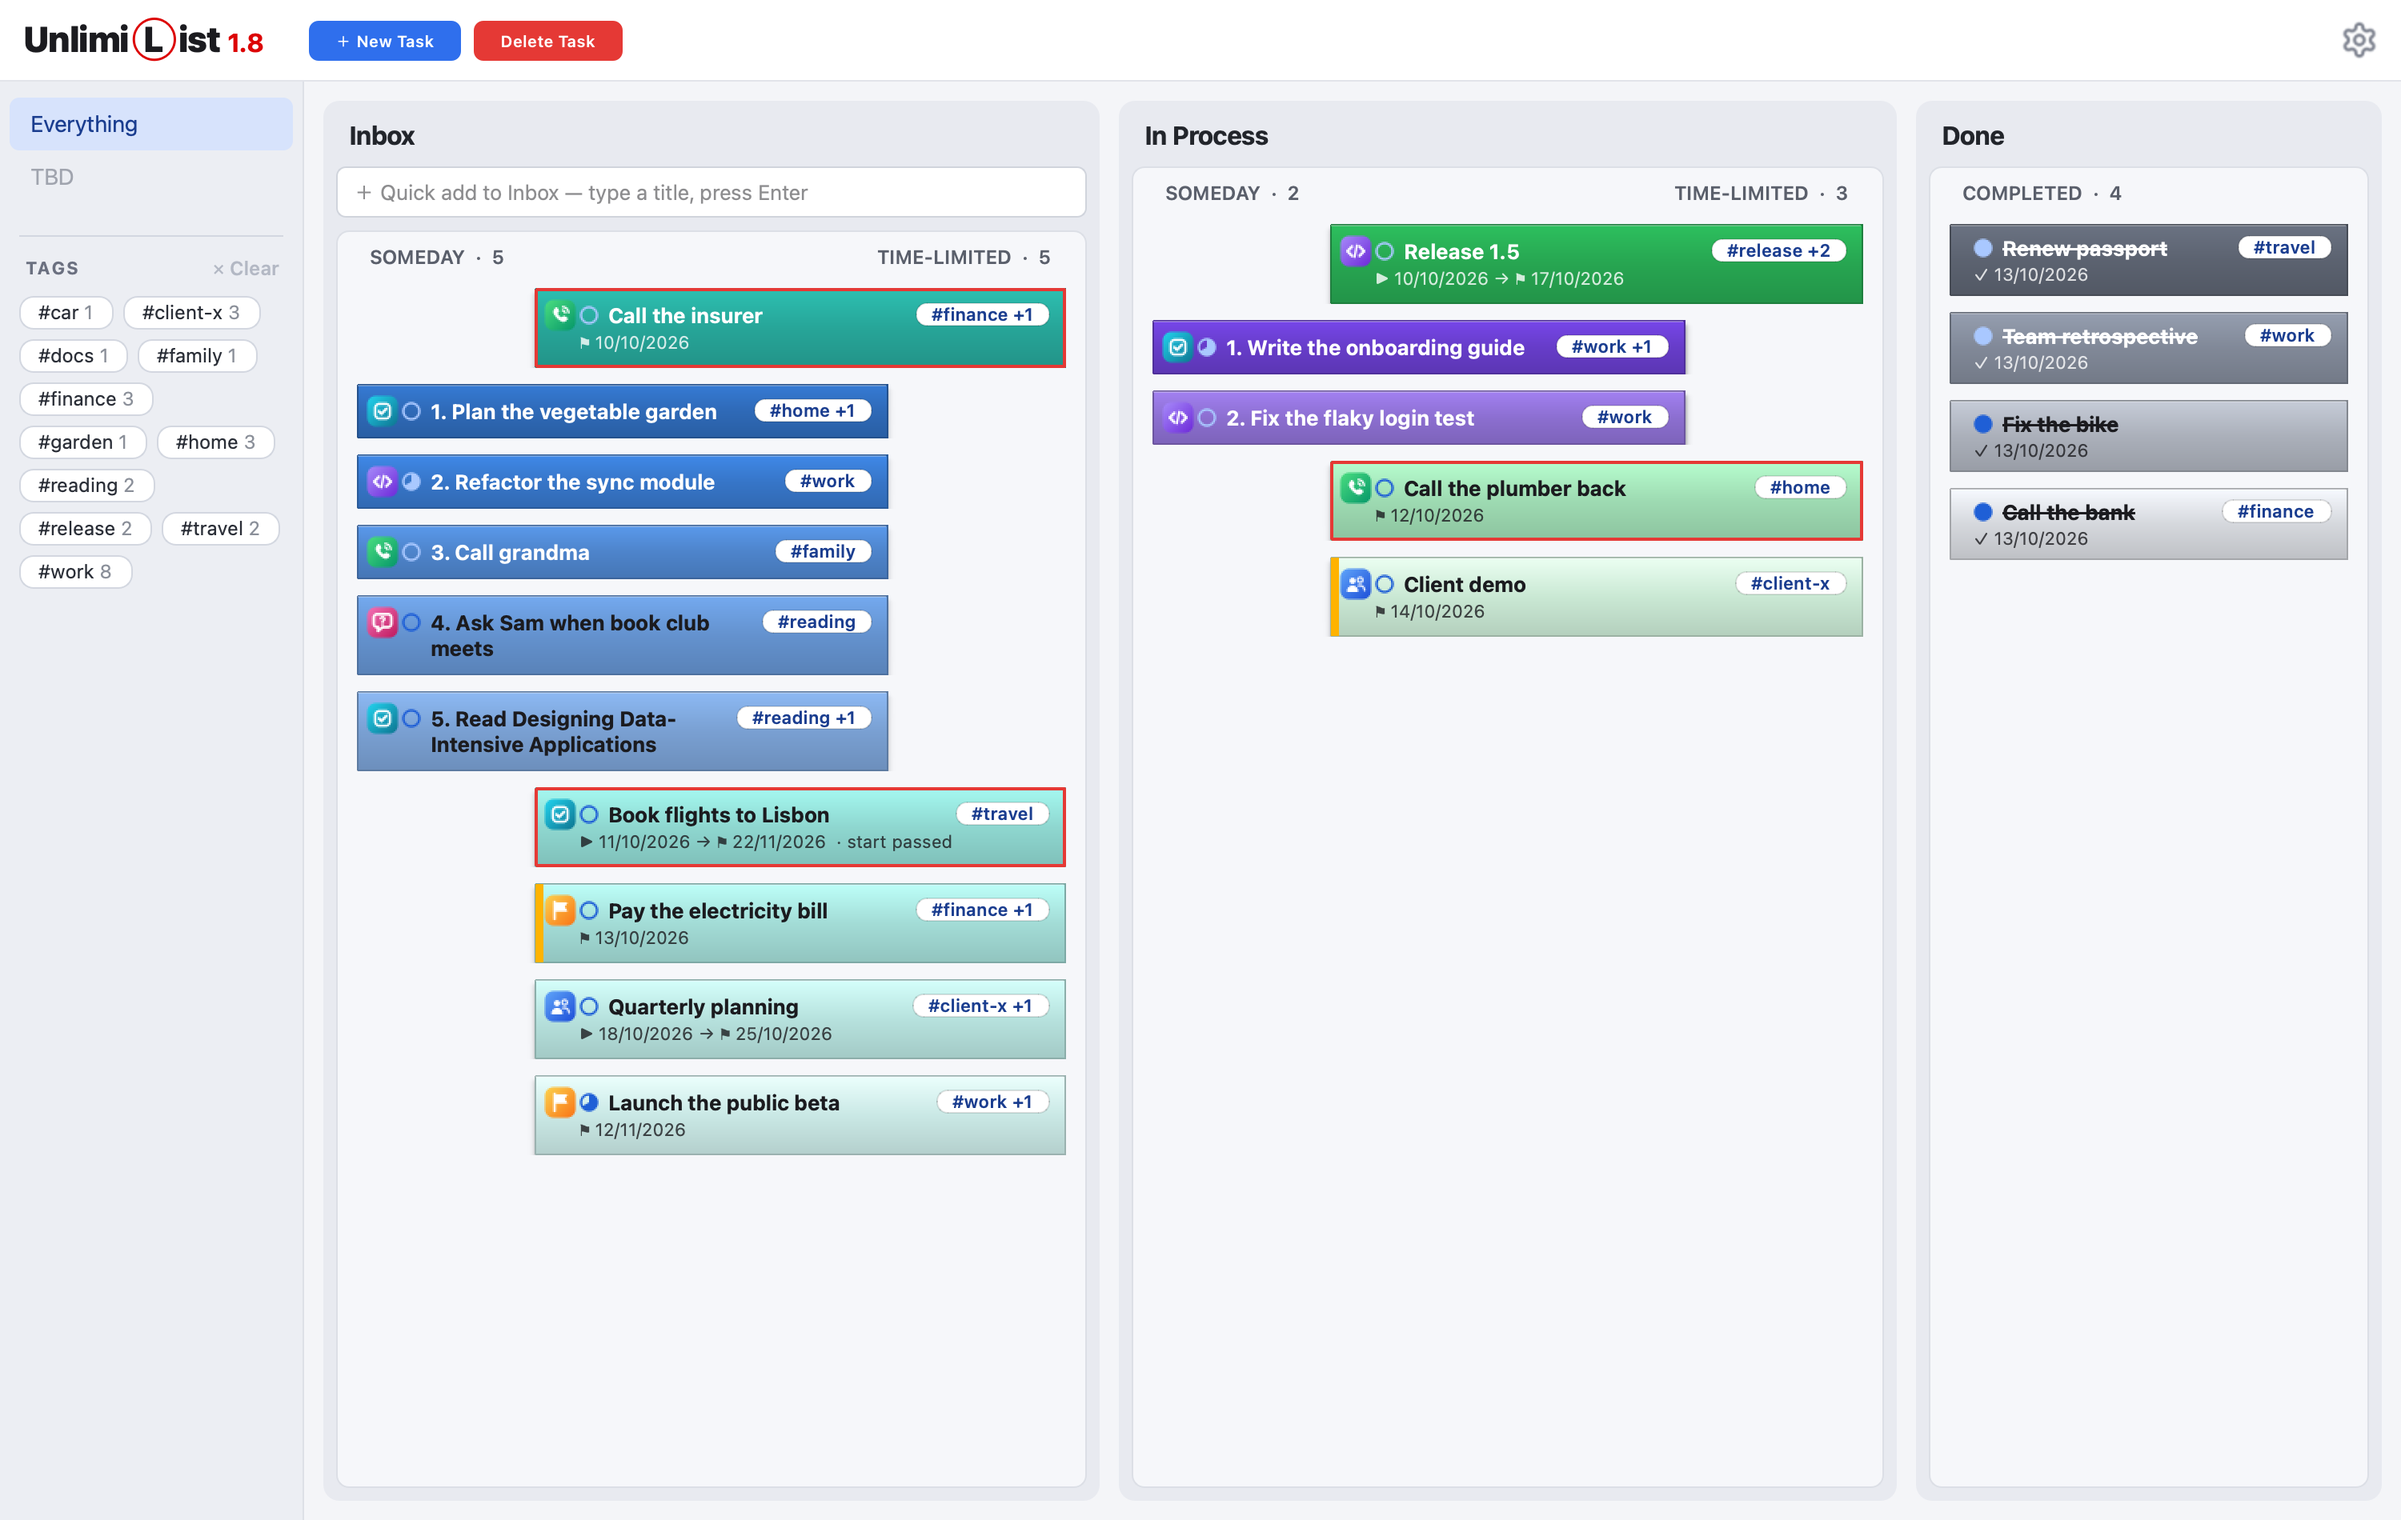
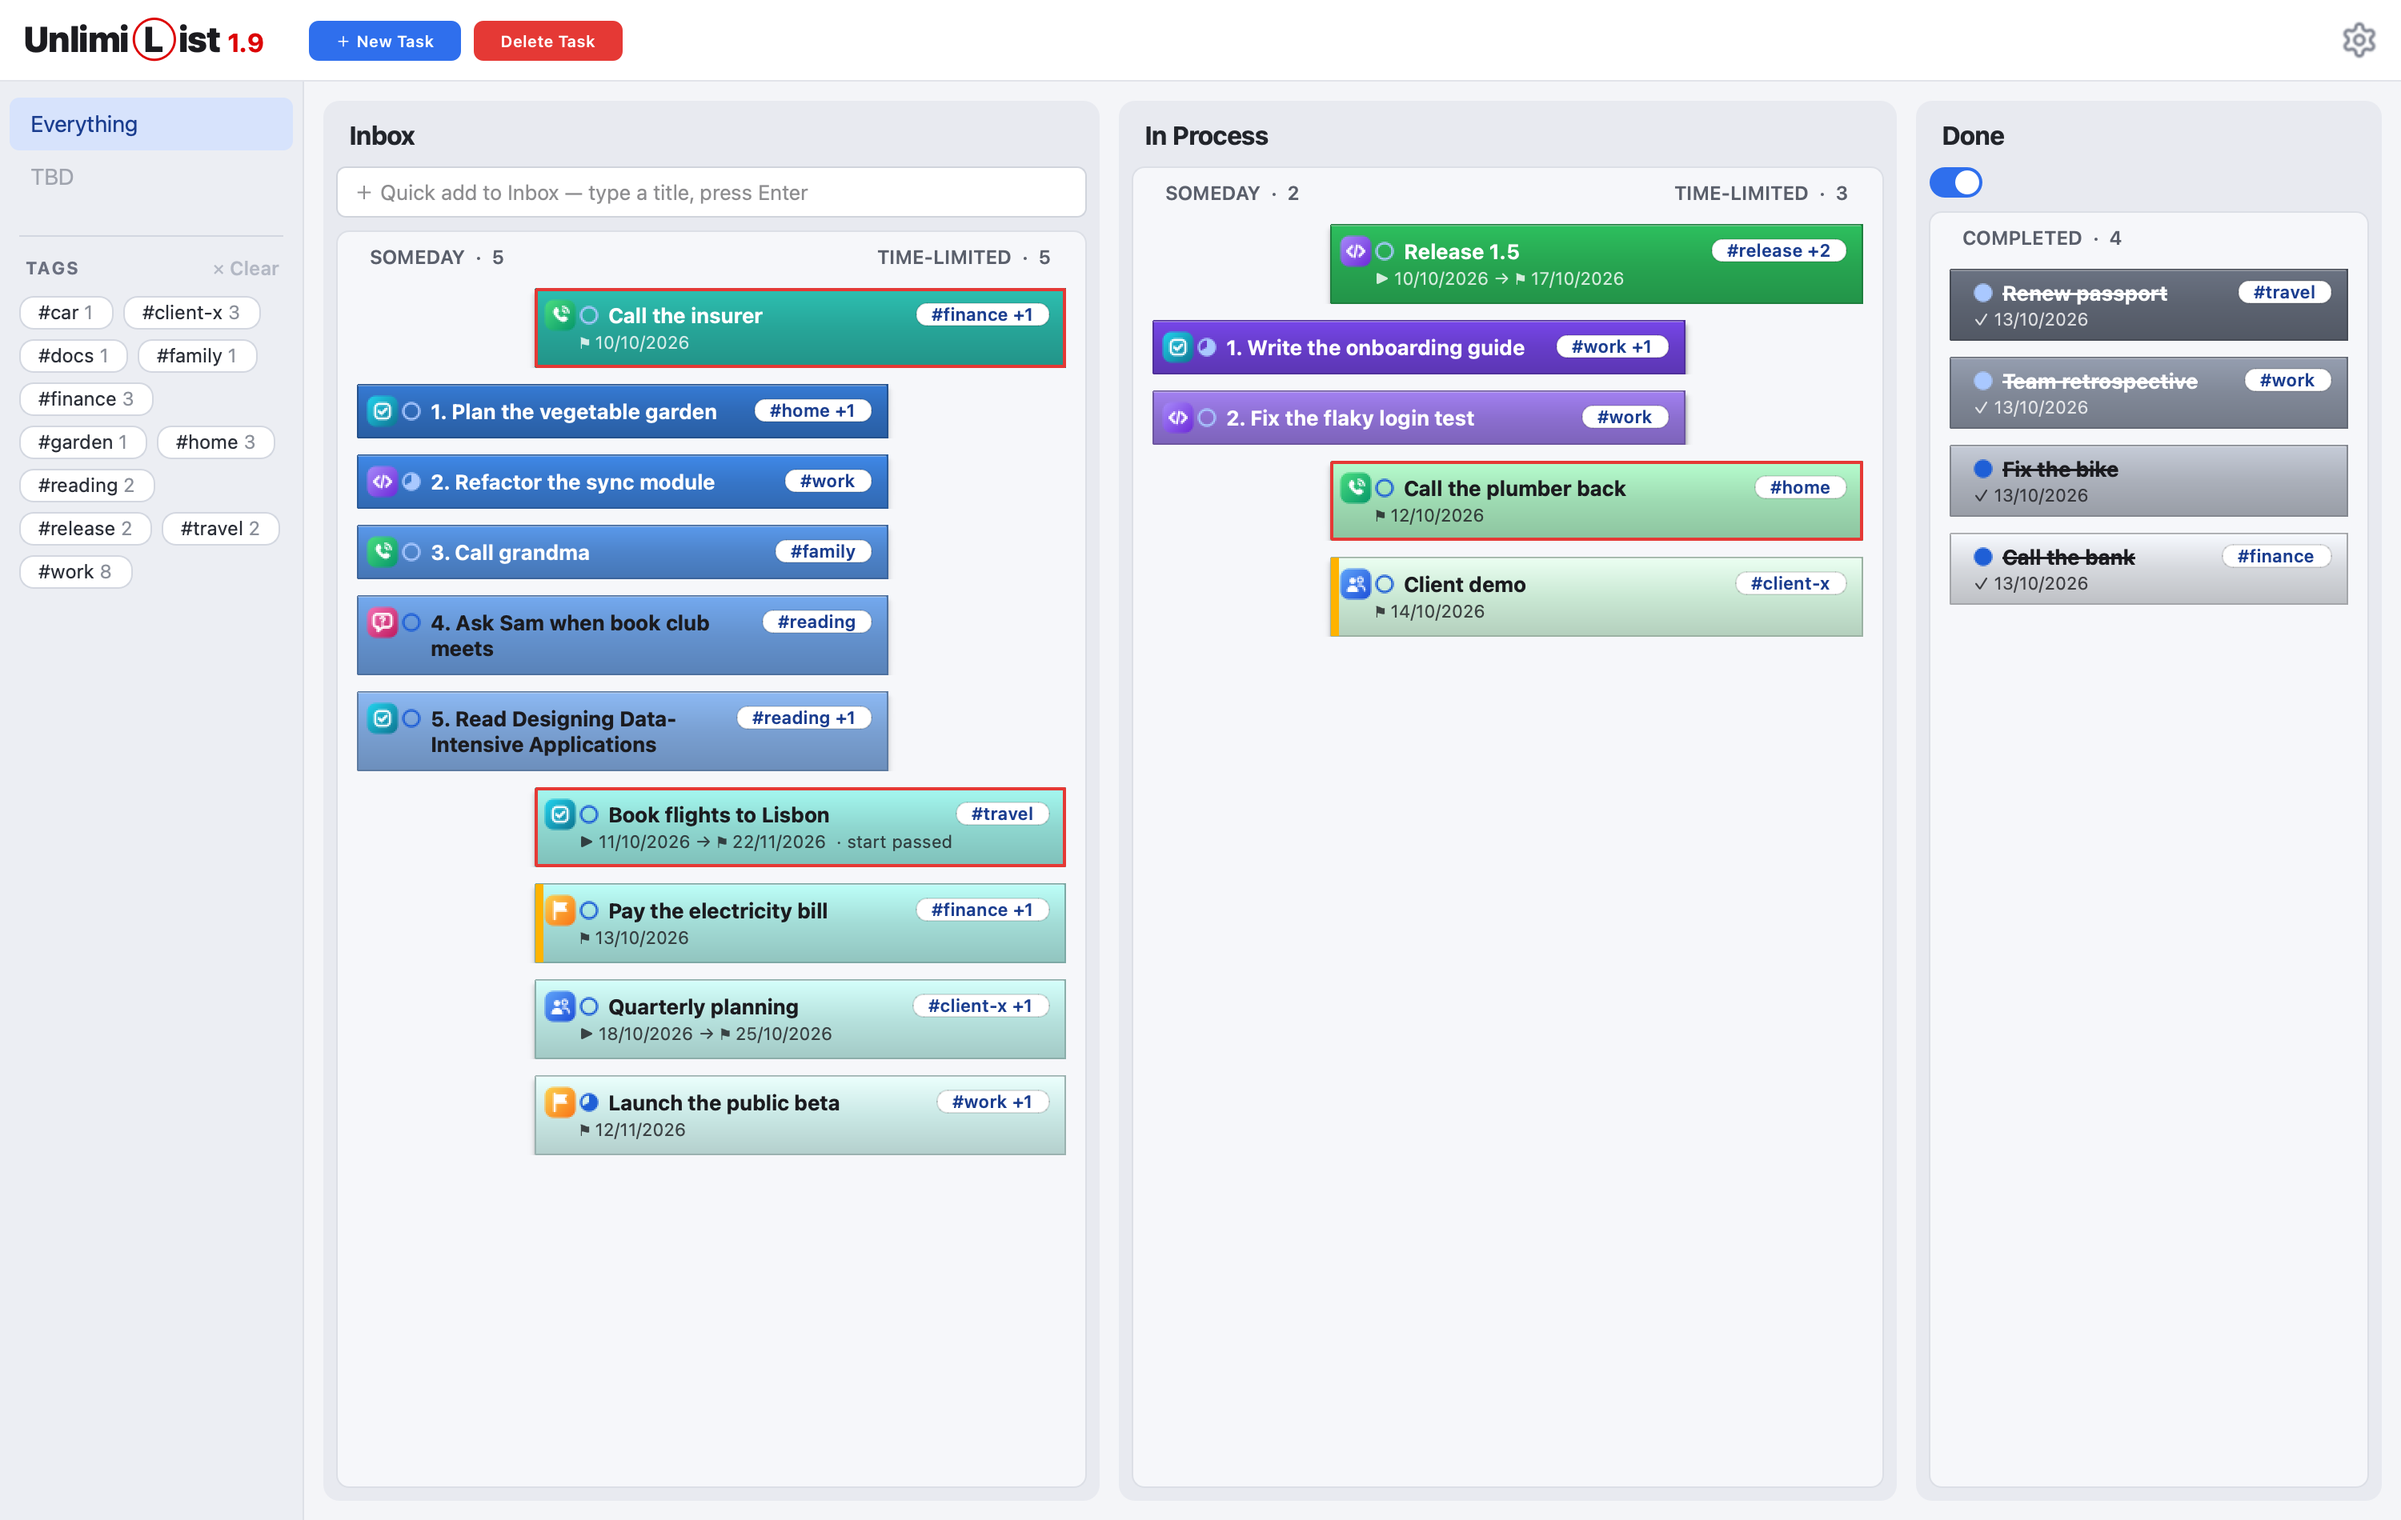
Version 1.9.0

Changed region(s): [[0.806, 0.0932, 0.992, 0.4037]]

diff --git a/tests/test_ui.py b/tests/test_ui.py
@@ -396,9 +396,9 @@ def test_window_has_the_app_icon(window):
 
 def test_toolbar_shows_the_app_name_with_its_version(window):
     title = window.app_title
-    assert (title.name(), title.version()) == ("UnlimiList", "1.8")
-    assert title.accessibleName() == "UnlimiList 1.8"
-    assert window.windowTitle() == "UnlimiList 1.8"
+    assert (title.name(), title.version()) == ("UnlimiList", "1.9")
+    assert title.accessibleName() == "UnlimiList 1.9"
+    assert window.windowTitle() == "UnlimiList 1.9"
 
 
 def test_column_shows_the_interleaved_order(window, board):

diff --git a/src/unlimilist/__init__.py b/src/unlimilist/__init__.py
@@ -1,3 +1,3 @@
 """Unlimilist: a personal Kanban task manager."""
 
-__version__ = "1.8.5"
+__version__ = "1.9.0"
